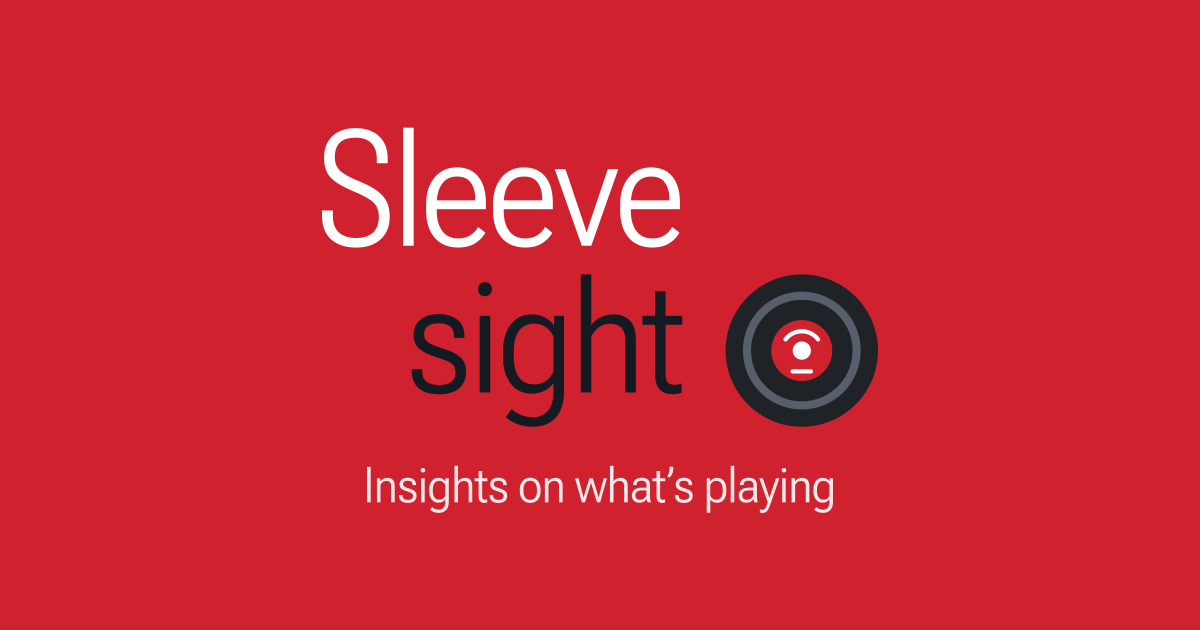
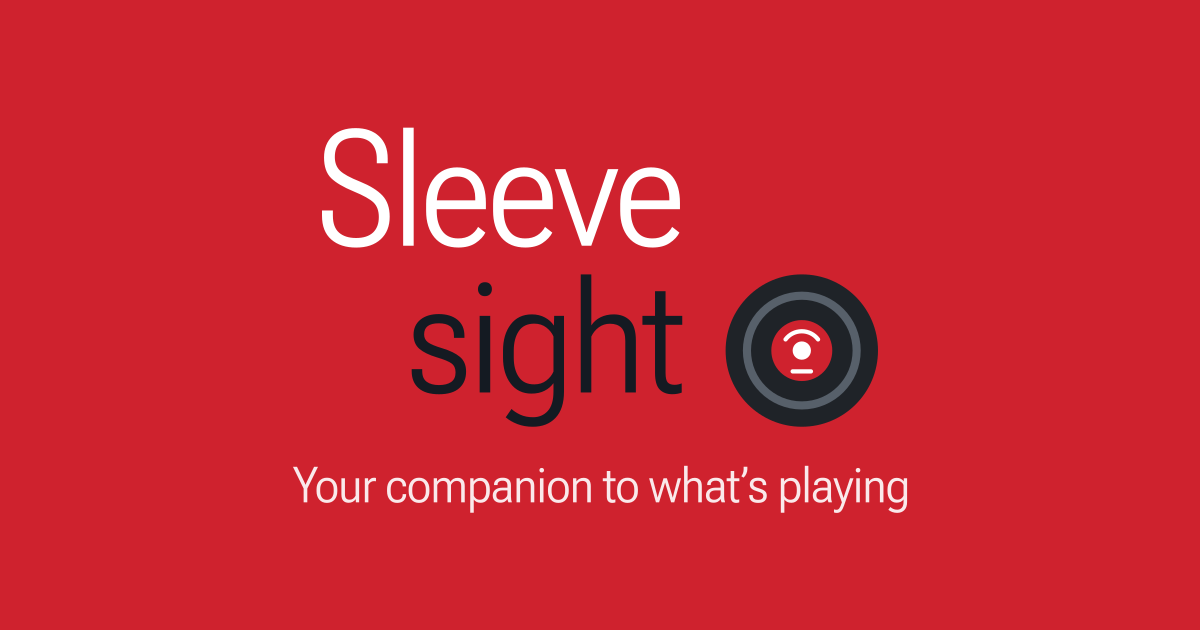
[DOCS] Tagline: "Your companion to what's playing" in place of "Insights on what's playing" (#1214)
* [DOCS] Tagline: "Your companion to what's playing" in place of "Insights on what's playing"

The tagline changes wherever it appears outside the frozen docs: the line under the README's logo,
`_config.yml`'s `description`, and the product page (`index.html`): its `<title>`, `og:title`, the
`<h1>`, and the `og:image:alt` and `twitter:image:alt` texts. The product page's lede, with its
`meta description` and `og:description`, says "track" in place of "song".

The feature graphic and the link preview are rebuilt by their scripts with the new `TAG_TEXT`
(`make_feature_graphic.py`, then `make_og_image.py`, Roboto Flex 3.200): only the tagline's path
changes in `listing/graphics/feature-graphic.svg` and `assets/og-image.svg`, and both still fit
their layouts, the feature graphic's right-aligned and the preview's inside the middle square.
`design/brand.html` (the tagline stage, the graphics' description and alt texts) and the Play alt
text in `design/release.md` follow. The other designs tried for the feature graphic
(`assets/logo/feature-graphic/`) keep the old tagline, as the record of what was tried.

* [DOCS] Tagline: "track" in place of "song" in the site's description and the brand sheet

`_config.yml`'s `description` and the brand sheet's sample paragraph (`design/brand.html`, its
`s-para` stage) say "track" in place of "song", as the product page's lede now does. Nothing else in
`brand.html` quotes the lede or the old tagline.

---------

Changed region(s): [[0.2467, 0.7238, 0.7708, 0.8143]]

diff --git a/design/brand.html b/design/brand.html
@@ -602,11 +602,11 @@ document.documentElement.classList.add('js');
       <figcaption>The linear logo: Roboto Flex 400, width 88%, optical size 52.64, tracking -1.5%; the record trailing.</figcaption>
     </figure>
     <figure>
-      <div class="stage"><p class="s-head">Insights on what's playing</p></div>
+      <div class="stage"><p class="s-head">Your companion to what's playing</p></div>
       <figcaption>A heading, the product page's title: Roboto Flex 700, width 90%, tracking -2%.</figcaption>
     </figure>
     <figure>
-      <div class="stage"><p class="s-para">Sleevesight knows what your music player is playing and shows short, <strong>sourced</strong> insights about the artist, the song and the album, each with a link to where it came from.</p></div>
+      <div class="stage"><p class="s-para">Sleevesight knows what your music player is playing and shows short, <strong>sourced</strong> insights about the artist, the track and the album, each with a link to where it came from.</p></div>
       <figcaption>A paragraph: Roboto Slab 350 at 18 px, bold at 700.</figcaption>
     </figure>
     <figure>
@@ -788,14 +788,14 @@ document.documentElement.classList.add('js');
 <section id="feature" aria-labelledby="feature-h">
   <h2 id="feature-h">Feature graphic</h2>
   <p>The feature graphic is the banner of the app's Google Play listing, 1024 &times; 500 pixels. Play shows it at the head of the listing, as the cover of a preview video, and in its collections and ads, where it may crop the edges.</p>
-  <p>It is the label's red, with "Sleeve" in white over "sight" in the ink, the tagline "Insights on what's playing" under them, and the record beside "sight", large, running off the right and bottom edges, so that only the record is lost where Play crops.</p>
-  <figure class="fg-fig"><img src="../listing/graphics/feature-graphic.svg" width="1024" height="500" loading="lazy" alt="On red: Sleeve in white over sight in ink, the tagline Insights on what's playing under them, and a large record beside sight, cut off by the right and bottom edges"><figcaption>The feature graphic, as on Google Play.</figcaption></figure>
+  <p>It is the label's red, with "Sleeve" in white over "sight" in the ink, the tagline "Your companion to what's playing" under them, and the record beside "sight", large, running off the right and bottom edges, so that only the record is lost where Play crops.</p>
+  <figure class="fg-fig"><img src="../listing/graphics/feature-graphic.svg" width="1024" height="500" loading="lazy" alt="On red: Sleeve in white over sight in ink, the tagline Your companion to what's playing under them, and a large record beside sight, cut off by the right and bottom edges"><figcaption>The feature graphic, as on Google Play.</figcaption></figure>
 </section>
 
 <section id="preview" aria-labelledby="preview-h">
   <h2 id="preview-h">Link preview</h2>
   <p>The product page's link preview, its <code>og:image</code>, is what a chat or a social network shows with a link to the page: 1200 &times; 630 pixels, the shape most of them crop to. It is the stacked logo on the label's red, as the feature graphic is, "Sleeve" in white over "sight" in the ink, with the tagline under it, kept inside the middle square, so a service that crops the preview to a square thumbnail still shows the whole logo. The red stands apart from a chat's light and dark backgrounds alike, where white or black would merge with one of them.</p>
-  <figure class="fg-fig"><img src="../assets/og-image.svg" width="1200" height="630" loading="lazy" alt="On red: the stacked logo, Sleeve in white over sight in ink beside the record, and the tagline Insights on what's playing under it"><figcaption>The link preview, as the product page gives it.</figcaption></figure>
+  <figure class="fg-fig"><img src="../assets/og-image.svg" width="1200" height="630" loading="lazy" alt="On red: the stacked logo, Sleeve in white over sight in ink beside the record, and the tagline Your companion to what's playing under it"><figcaption>The link preview, as the product page gives it.</figcaption></figure>
 </section>
 
 <div class="logos">

diff --git a/index.html b/index.html
@@ -7,15 +7,15 @@ docs_version: 0.6.3
 <head>
 <meta charset="utf-8">
 <meta name="viewport" content="width=device-width, initial-scale=1">
-<title>Sleevesight: insights on what's playing</title>
-<meta name="description" content="Facts and stories about the song, artist and album you’re listening to, linked to their sources.">
+<title>Sleevesight: your companion to what's playing</title>
+<meta name="description" content="Facts and stories about the track, artist and album you’re listening to, linked to their sources.">
 <link rel="canonical" href="https://sleevesight.app/">
 <link rel="icon" type="image/svg+xml" href="{{ '/assets/favicon.svg' | relative_url }}">
 <meta name="color-scheme" content="light dark">
 <meta property="og:type" content="website">
 <meta property="og:site_name" content="Sleevesight">
-<meta property="og:title" content="Sleevesight: insights on what's playing">
-<meta property="og:description" content="Facts and stories about the song, artist and album you’re listening to, linked to their sources.">
+<meta property="og:title" content="Sleevesight: your companion to what's playing">
+<meta property="og:description" content="Facts and stories about the track, artist and album you’re listening to, linked to their sources.">
 <meta property="og:url" content="https://sleevesight.app/">
 <!-- The link preview: the stacked logo and the tagline on the label's red, 1200 x 630, built from the
      logo's sources by `assets/logo/src/make_og_image.py` (the brand sheet, *Link preview*). Open
@@ -24,9 +24,9 @@ docs_version: 0.6.3
 <meta property="og:image:type" content="image/png">
 <meta property="og:image:width" content="1200">
 <meta property="og:image:height" content="630">
-<meta property="og:image:alt" content="The Sleevesight logo on red: the words Sleeve and sight beside a vinyl record, and the tagline Insights on what's playing">
+<meta property="og:image:alt" content="The Sleevesight logo on red: the words Sleeve and sight beside a vinyl record, and the tagline Your companion to what's playing">
 <meta name="twitter:card" content="summary_large_image">
-<meta name="twitter:image:alt" content="The Sleevesight logo on red: the words Sleeve and sight beside a vinyl record, and the tagline Insights on what's playing">
+<meta name="twitter:image:alt" content="The Sleevesight logo on red: the words Sleeve and sight beside a vinyl record, and the tagline Your companion to what's playing">
 <!-- The landing page: no theme, no analytics, and short scripts, for the header and the intro. Its
      header logo is the one-line logo, as in the app (#985); its intro is one of those
      listed at `.sl-intro` in `_includes/site-header-style.html`, picked at random on each visit
@@ -253,8 +253,8 @@ a.ch:focus-visible{outline:3px solid var(--accent);outline-offset:2px}
 <main id="main">
 <div class="hero">
   <div>
-    <h1>Insights on what’s playing</h1>
-    <p class="lede">Facts and stories about the song, artist and album you’re listening to, linked to their sources.</p>
+    <h1>Your companion to what’s playing</h1>
+    <p class="lede">Facts and stories about the track, artist and album you’re listening to, linked to their sources.</p>
     <p class="players">Sleevesight is a music insight companion to <a href="https://www.spotify.com/">Spotify</a>, <a href="https://music.youtube.com/">YouTube Music</a>, <a href="https://www.qobuz.com/">Qobuz</a>, <a href="https://tidal.com/">Tidal</a>, or another player of your choice.</p>
   </div>
 

diff --git a/assets/logo/src/make_feature_graphic.py b/assets/logo/src/make_feature_graphic.py
@@ -3,8 +3,8 @@
 All 1024 x 500, built from the logo's sources: the words are the tile's outlines (`tile.json`,
 written by `make_tile.py`); the record is the brand sheet's drawing (`<symbol id="lp">` in
 `design/brand.html`); the colours, other than white, are the sheet's light and dark colourways
-(`.lt` and `.dk`, and its `--muted` for a tagline in grey); the tagline "Insights on what's
-playing" is outlined here from Roboto Flex. So every SVG renders without a font.
+(`.lt` and `.dk`, and its `--muted` for a tagline in grey); the tagline "Your companion to
+what's playing" is outlined here from Roboto Flex. So every SVG renders without a font.
 
   d2              The one on Google Play: on the label's red (`.lt`'s `--red`), "Sleeve" white over
                   "sight" in the logo's ink (a red "sight" would vanish on red), right-aligned, the
@@ -61,7 +61,7 @@ from fontTools.varLib.instancer import instantiateVariableFont
 
 W, H = 1024, 500
 WHITE = '#ffffff'
-TAG_TEXT = 'Insights on what’s playing'
+TAG_TEXT = 'Your companion to what’s playing'
 TAG_AXES = {'wght': 400, 'wdth': 88, 'opsz': 36}
 TAG_TRACK = -.01              # em, after each letter
 RECORD_ELEMENTS = 7           # the elements of <symbol id="lp">, the core included

diff --git a/assets/logo/src/make_og_image.py b/assets/logo/src/make_og_image.py
@@ -3,8 +3,8 @@
 1200 x 630 px, the size most link previews crop to (Open Graph's 1.91:1), built from the logo's
 sources as `make_feature_graphic.py` builds the feature graphic, and with its code: the words are
 the tile's outlines (`tile.json`), the record is the brand sheet's drawing (`<symbol id="lp">` in
-`design/brand.html`), the colours are the sheet's colourways, and the tagline "Insights on what's
-playing" is outlined from Roboto Flex, so the SVG renders without a font.
+`design/brand.html`), the colours are the sheet's colourways, and the tagline "Your companion to
+what's playing" is outlined from Roboto Flex, so the SVG renders without a font.
 
 Each design is the 8b mark (the words, the record beside "sight", as tall as it) with the tagline
 under it, centred, and kept inside the middle 630 x 630 square, so a service that crops the image

diff --git a/design/release.md b/design/release.md
@@ -95,7 +95,7 @@ python3 assets/logo/src/make_feature_graphic.py RobotoFlex.ttf
 
 With `--design all`, it also rebuilds the other designs tried for the graphic, kept in `assets/logo/feature-graphic/`; the [brand sheet](brand.html) shows the one in use. The product page's link preview, `assets/og-image.png` (its `og:image`), is built from the same sources by `assets/logo/src/make_og_image.py`, with the same font and code it imports from `make_feature_graphic.py`: after such a change, or to `make_feature_graphic.py`, run it too (`python3 assets/logo/src/make_og_image.py RobotoFlex.ttf`), and `assets/logo/src/make_mark.py`, which writes the README's logo, `assets/logo/mark-light.svg` and `mark-dark.svg`, and needs no font (`python3 assets/logo/src/make_mark.py`).
 
-Play Console asks for alt text with the graphic, at most 140 characters. Play's advice: "Don't use "photo of" or "image of"; screen readers already provide this information." It is: *The Sleevesight logo on red: the words Sleeve and sight beside a large vinyl record, and the tagline Insights on what's playing*.
+Play Console asks for alt text with the graphic, at most 140 characters. Play's advice: "Don't use "photo of" or "image of"; screen readers already provide this information." It is: *The Sleevesight logo on red: the words Sleeve and sight beside a large vinyl record, and the tagline Your companion to what's playing*.
 
 ## Versioning
 

diff --git a/README.md b/README.md
@@ -5,7 +5,7 @@
   </picture>
 </p>
 
-<p align="center"><b>Insights on what's playing</b></p>
+<p align="center"><b>Your companion to what's playing</b></p>
 
 <!-- chips: images from GitHub and shields.io, left out of the site's copy, which cuts from here to the closing marker (`readme-page.html`); keep both markers -->
 <p align="center">
